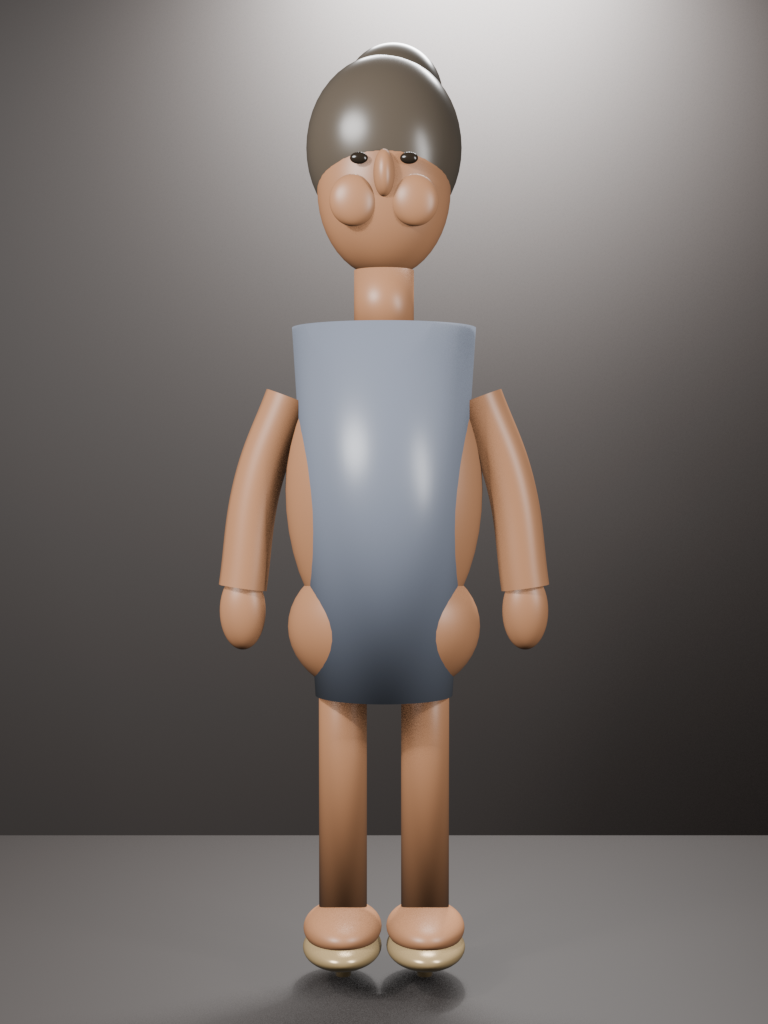
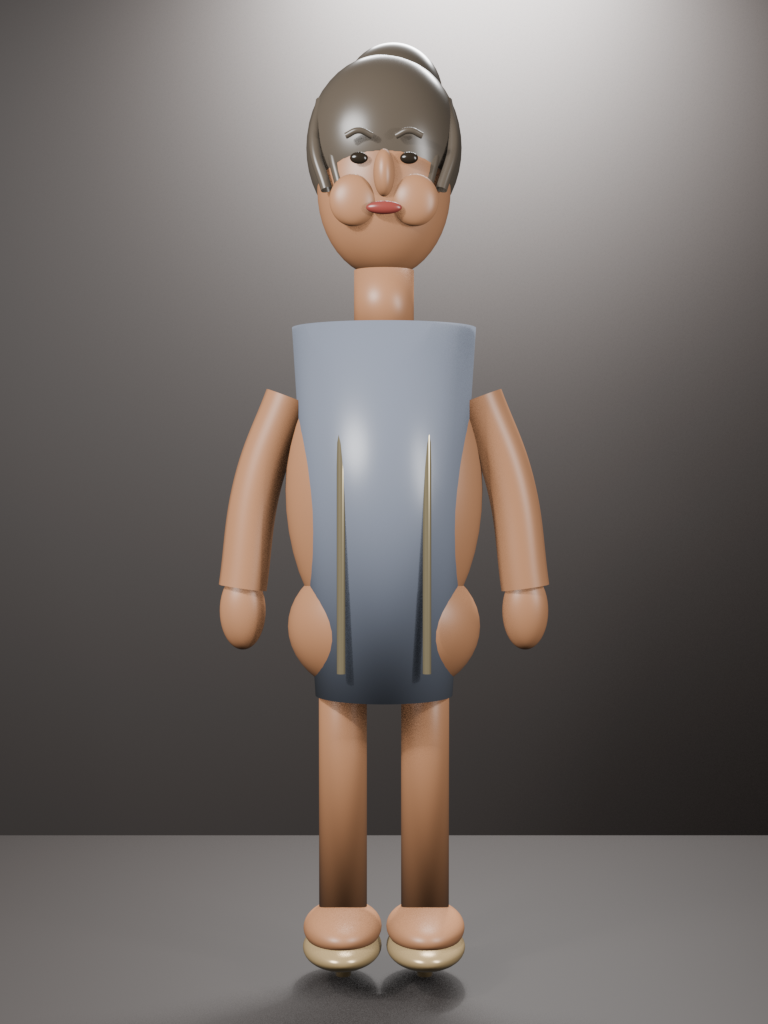
Improve primitive character portrait renderer

diff --git a/batch_character_renderer.py b/batch_character_renderer.py
@@ -137,6 +137,8 @@ def render_character(char_data):
     
     shoe = mat("Shoes", (0.48, 0.34, 0.17), 0.25, 0.25)
     eye = mat("Eye", (0.025, 0.018, 0.012), 0, 0.18)
+    lips = mat("Lips", (0.28, 0.055, 0.045), 0, 0.28)
+    shadow = mat("Clothing Shadow", (0.035, 0.025, 0.03), 0, 0.52)
     
     # ------- BODY -------
     # Legs
@@ -160,6 +162,8 @@ def render_character(char_data):
     # Eyes
     for x in (-0.105, 0.105):
         uv_sphere("Eye", (x, -0.255, 3.54), (0.038, 0.020, 0.025), eye)
+        curve_tube("Brow", [(x - 0.055, -0.265, 3.63), (x, -0.278, 3.65), (x + 0.055, -0.265, 3.63)], 0.014, hair)
+    uv_sphere("Lips", (0, -0.278, 3.33), (0.075, 0.025, 0.028), lips)
     
     # Arms
     for x, side in [(-0.55, -1), (0.55, 1)]:
@@ -173,6 +177,8 @@ def render_character(char_data):
     # Hair
     uv_sphere("Hair", (0, 0.05, 3.64), (0.34, 0.29, 0.40), hair)
     uv_sphere("Hair bun", (0.04, 0.12, 3.88), (0.22, 0.20, 0.23), hair)
+    for x in (-0.27, -0.20, 0.20, 0.27):
+        curve_tube("Hair strand", [(x, -0.02, 3.83), (x * 1.1, -0.12, 3.62), (x * 0.9, -0.18, 3.42)], 0.025, hair)
     
     # ------- OUTFIT -------
     if char_data["type"] == "female":
@@ -188,6 +194,7 @@ def render_character(char_data):
         
         # High collar
         cyl("Collar", (0, -0.005, 2.91), 0.145, 0.16, body_material)
+        curve_tube("Waist belt", [(-0.34, -0.29, 2.02), (0, -0.32, 1.96), (0.34, -0.29, 2.02)], 0.026, gold)
         
         # Robe panels
         for x in (-0.42, 0.42):
@@ -231,6 +238,8 @@ def render_character(char_data):
         
         # Vest
         cyl("Vest", (0, -0.02, 2.30), 0.25, 0.55, robe_material)
+        curve_tube("Coat piping", [(-0.18, -0.30, 2.78), (-0.18, -0.31, 1.38)], 0.018, gold)
+        curve_tube("Coat piping", [(0.18, -0.30, 2.78), (0.18, -0.31, 1.38)], 0.018, gold)
     
     # Shoes (both genders)
     for x in (-0.18, 0.18):
